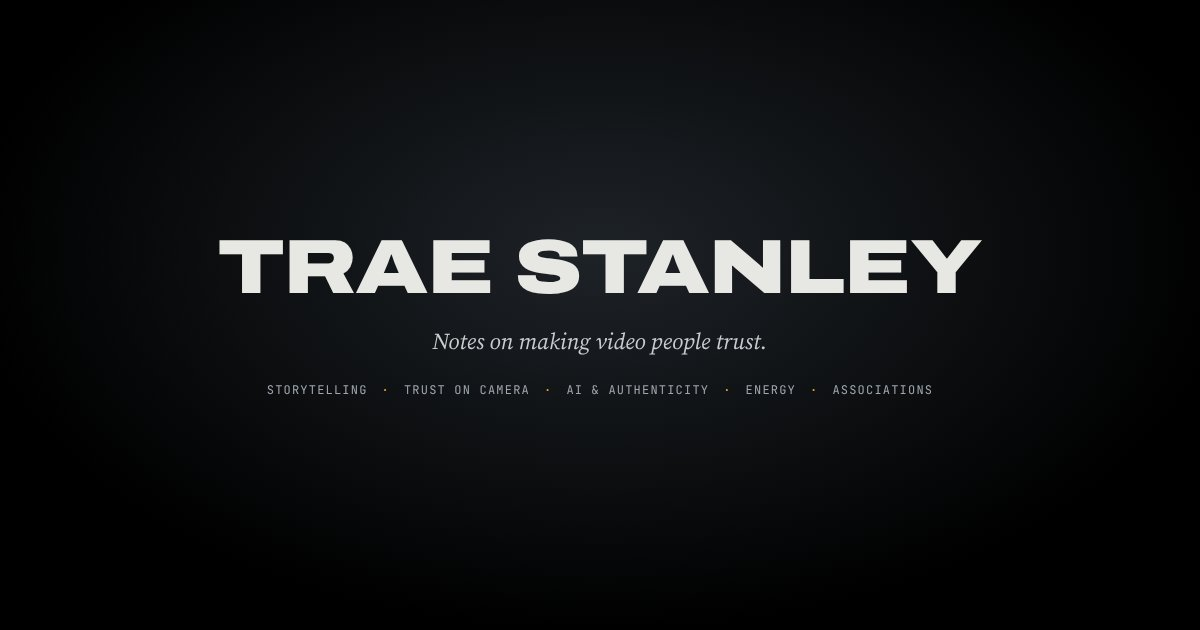
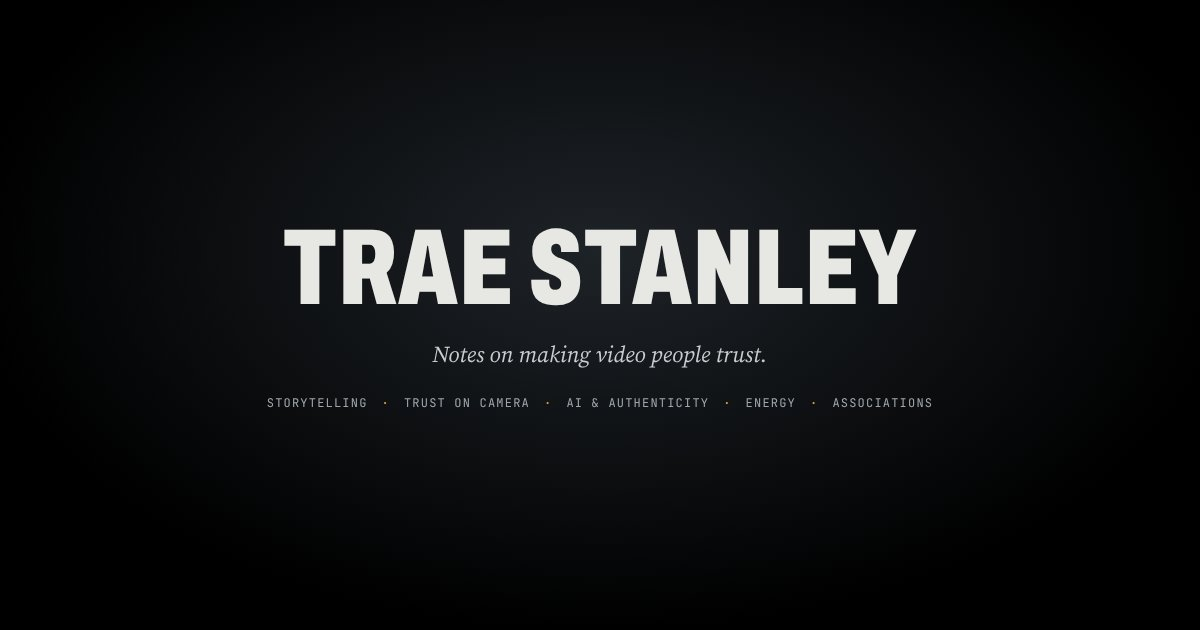
Switch headings to condensed lettering
The extra-wide display face clashed with the narrow mono line on the
title card. Name, logo and screen headings now use Archivo condensed.

Claude-Session: https://claude.ai/code/session_01XamwtD9xojb6snHHo9eMkZ

diff --git a/assets/site.css b/assets/site.css
@@ -26,7 +26,7 @@ button{font:inherit;color:inherit;background:none;border:0;cursor:pointer}
 /* menu bar */
 .bar{position:sticky;top:env(safe-area-inset-top,0px);z-index:20;background:var(--panel);border-bottom:1px solid var(--line)}
 .bar .gut{display:flex;align-items:center;gap:18px;height:48px}
-.brand{font:850 15px/1 var(--f-display);font-stretch:122%;letter-spacing:.01em;white-space:nowrap;text-decoration:none}
+.brand{font:850 19px/1 var(--f-display);font-stretch:70%;letter-spacing:.03em;white-space:nowrap;text-decoration:none}
 .brand i{font-style:normal;color:var(--playhead)}
 .bar nav{display:flex;gap:4px;margin-left:8px;overflow:hidden}
 .bar nav button{padding:7px 10px;border-radius:4px;color:var(--muted);font:500 13px/1 var(--f-display);display:flex;gap:7px;align-items:center;white-space:nowrap}
@@ -58,18 +58,18 @@ button{font:inherit;color:inherit;background:none;border:0;cursor:pointer}
 
 /* scenes */
 .s-title{place-content:center;text-align:center;padding:6%;background:radial-gradient(70% 80% at 50% 40%,#1E2328 0%,#000 75%)}
-.s-title h1{margin:0;font:880 clamp(30px,6.4vw,92px)/.92 var(--f-display);font-stretch:125%;letter-spacing:-.01em;text-wrap:balance}
+.s-title h1{margin:0;font:850 clamp(40px,9vw,126px)/.9 var(--f-display);font-stretch:68%;letter-spacing:.01em;text-wrap:balance}
 .s-title p{margin-top:clamp(10px,2vw,22px);font:400 clamp(14px,1.9vw,24px)/1.35 var(--f-body);font-style:italic;color:#C9CDD0}
 .s-title .ind{margin-top:clamp(12px,2.2vw,26px);display:flex;flex-wrap:wrap;justify-content:center;gap:6px 14px;font:500 clamp(9px,1.05vw,12px)/1.2 var(--f-mono);letter-spacing:.1em;text-transform:uppercase;color:#9EA6AD}
 .s-title .ind span+span::before{content:"·";margin-right:14px;color:var(--c-family)}
 .s-process{align-content:center;padding:6% 6%;background:radial-gradient(90% 90% at 50% 0%,#1A2530 0%,#05080B 75%)}
-.s-process h2{margin:0 0 clamp(12px,2.4vw,28px);font:850 clamp(18px,3vw,40px)/1 var(--f-display);font-stretch:118%}
+.s-process h2{margin:0 0 clamp(12px,2.4vw,28px);font:850 clamp(22px,3.8vw,52px)/1 var(--f-display);font-stretch:72%}
 .s-process ol{list-style:none;margin:0;padding:0;display:grid;grid-template-columns:repeat(5,minmax(0,1fr));gap:clamp(6px,1vw,12px);counter-reset:st}
 .s-process li{counter-increment:st;border-top:2px solid var(--c-me);padding-top:clamp(6px,1vw,12px);font:400 clamp(10px,1.25vw,15px)/1.35 var(--f-body);color:#C3C8CC}
 .s-process li::before{content:"0" counter(st);display:block;font:600 clamp(9px,1vw,11px)/1 var(--f-mono);color:var(--c-me);margin-bottom:6px}
 .s-process li b{display:block;color:#fff;font:750 clamp(11px,1.5vw,18px)/1.1 var(--f-display);margin-bottom:4px}
 .s-film{place-content:center;padding:7%;background:var(--g);text-shadow:0 2px 12px rgba(0,0,0,.5)}
-.s-film .big{font:850 clamp(22px,4.4vw,60px)/1 var(--f-display);font-stretch:118%;max-width:16ch;text-wrap:balance}
+.s-film .big{font:850 clamp(28px,5.8vw,80px)/.95 var(--f-display);font-stretch:70%;letter-spacing:.005em;max-width:16ch;text-wrap:balance}
 .s-film .pb{margin-top:clamp(12px,2.4vw,26px);display:inline-flex;gap:10px;align-items:center;font:700 clamp(12px,1.4vw,15px)/1 var(--f-display);background:rgba(255,255,255,.92);color:#111;padding:10px 14px;border-radius:40px;width:max-content;pointer-events:auto;text-decoration:none}
 .s-film .pb::before{content:"";border-left:10px solid #111;border-top:6px solid transparent;border-bottom:6px solid transparent}
 .s-photo-unused img{width:100%;height:100%;object-fit:cover;display:block}
@@ -84,13 +84,13 @@ button{font:inherit;color:inherit;background:none;border:0;cursor:pointer}
 .s-about{grid-template-columns:1fr}
 .s-about img{width:100%;height:100%;object-fit:cover}
 .s-about div{padding:8% 12%;max-width:60em;align-content:center;display:grid;gap:12px;background:#0F1418}
-.s-about h2{margin:0;font:850 clamp(18px,3vw,40px)/1 var(--f-display);font-stretch:118%}
+.s-about h2{margin:0;font:850 clamp(24px,4vw,54px)/1 var(--f-display);font-stretch:70%;letter-spacing:.01em}
 .s-about p{font-size:clamp(12px,1.45vw,17px);color:#C3C8CC;margin:0}
 .s-book{place-content:center;text-align:center;padding:6%;background:radial-gradient(80% 90% at 50% 30%,#3A2A10 0%,#0B0906 80%)}
-.s-book h2{margin:0;font:850 clamp(24px,4.6vw,62px)/1 var(--f-display);font-stretch:118%}
+.s-book h2{margin:0;font:850 clamp(30px,5.8vw,80px)/1 var(--f-display);font-stretch:70%}
 .s-book p{margin:.7em auto 0;max-width:40ch;font-size:clamp(13px,1.6vw,19px);color:#E3D6BF}
 .s-contact{place-content:center;padding:7%;background:#000}
-.s-contact h2{margin:0;font:880 clamp(28px,6vw,84px)/.95 var(--f-display);font-stretch:125%;text-wrap:balance}
+.s-contact h2{margin:0;font:850 clamp(38px,8.4vw,118px)/.92 var(--f-display);font-stretch:68%;letter-spacing:.01em;text-wrap:balance}
 .s-contact h2 em{font-style:normal;color:var(--playhead)}
 
 /* inspector */
@@ -98,7 +98,7 @@ button{font:inherit;color:inherit;background:none;border:0;cursor:pointer}
 .insp-body{padding:18px;display:grid;gap:16px;align-content:start}
 .insp .kind{display:flex;align-items:center;gap:8px;color:var(--muted)}
 .insp .kind i{width:10px;height:10px;border-radius:2px;background:var(--k)}
-.insp h2{margin:0;font:800 22px/1.15 var(--f-display);font-stretch:110%;text-wrap:balance}
+.insp h2{margin:0;font:800 25px/1.1 var(--f-display);font-stretch:82%;text-wrap:balance}
 .insp p.desc{margin:0;color:#C8CCCF;font-size:16px}
 .insp dl{display:grid;grid-template-columns:auto 1fr;gap:8px 14px;margin:0;padding-top:14px;border-top:1px solid var(--line);font-size:14px}
 .insp dt{color:var(--dim)}
